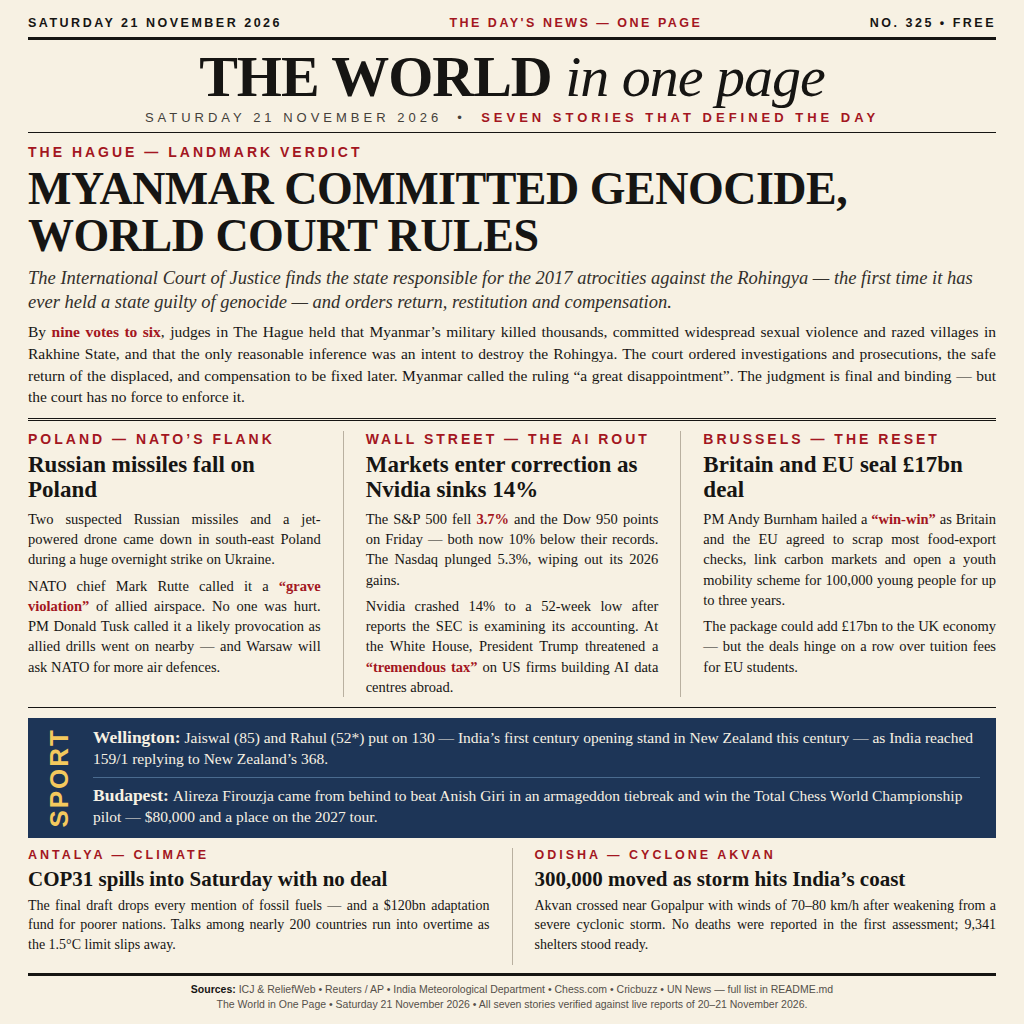
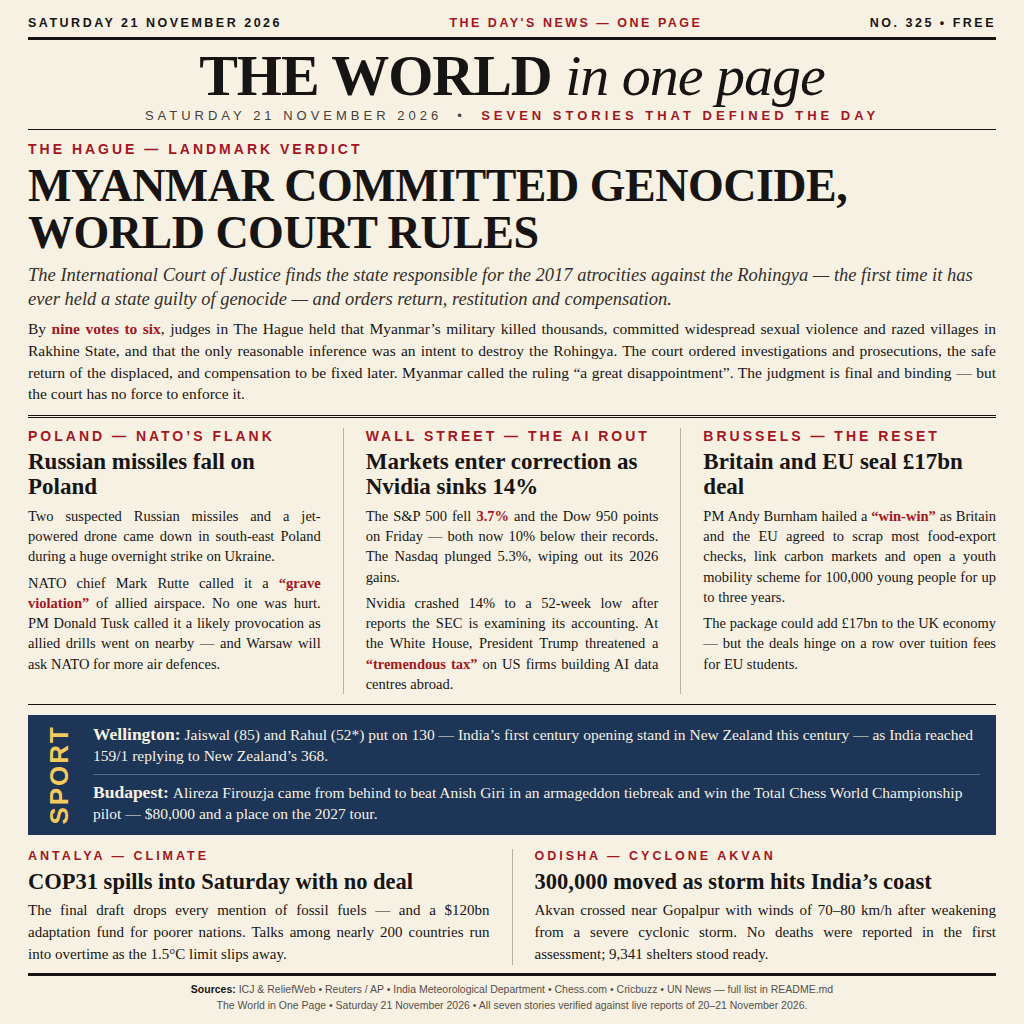
news-image-20261121 v2: enlarge bottom-band type, tighten masthead; stricter PNG validation (exact 1024x1024, IHDR len 13, disk-size cross-check)

diff --git a/main.ts b/main.ts
@@ -4,8 +4,10 @@
 // to /output/entry.png (or $MAKEFUN_OUTPUT_DIR for local runs), so two runs
 // always write identical bytes.
 //
-// Validation: PNG magic, width/height from the IHDR chunk (max 1024x1024),
+// Validation: PNG magic, width/height from the IHDR chunk (exactly 1024x1024),
 // an IEND chunk at the end, and a total size of at most 1 MiB (1048576 bytes).
+// The IHDR chunk length must be 13, and the on-disk size must match the
+// bytes read, so a truncated or swapped file cannot slip through.
 
 import { copyFileSync, mkdirSync, readFileSync, statSync } from 'node:fs';
 import { join } from 'node:path';
@@ -17,6 +19,10 @@ const IEND_TAIL = Buffer.from([0x00, 0x00, 0x00, 0x00, 0x49, 0x45, 0x4e, 0x44, 0
 
 const source = new URL('./entry.png', import.meta.url);
 const bytes = readFileSync(source);
+const diskSize = statSync(source).size;
+if (diskSize !== bytes.length) {
+  throw new Error(`entry.png size mismatch: ${diskSize} on disk vs ${bytes.length} read`);
+}
 
 if (bytes.length > MAX_BYTES) {
   throw new Error(`entry.png is ${bytes.length} bytes, over the 1 MiB limit`);
@@ -24,14 +30,17 @@ if (bytes.length > MAX_BYTES) {
 if (!bytes.subarray(0, 8).equals(PNG_MAGIC)) {
   throw new Error('entry.png is not a PNG (bad magic bytes)');
 }
-// IHDR: length (4) + "IHDR" (4) + width (4, BE) + height (4, BE).
+// IHDR: length (4, must be 13) + "IHDR" (4) + width (4, BE) + height (4, BE).
+if (bytes.readUInt32BE(8) !== 13) {
+  throw new Error('entry.png IHDR chunk length is not 13');
+}
 if (bytes.toString('ascii', 12, 16) !== 'IHDR') {
   throw new Error('entry.png has no IHDR chunk after the PNG signature');
 }
 const width = bytes.readUInt32BE(16);
 const height = bytes.readUInt32BE(20);
-if (width > MAX_DIMENSION || height > MAX_DIMENSION) {
-  throw new Error(`entry.png is ${width}x${height}, over the 1024x1024 limit`);
+if (width !== MAX_DIMENSION || height !== MAX_DIMENSION) {
+  throw new Error(`entry.png is ${width}x${height}, must be exactly 1024x1024`);
 }
 // Walk the chunk chain: every chunk must be whole, an IDAT chunk must exist,
 // and the last chunk must be IEND (checked below via the tail bytes).

diff --git a/poster.html b/poster.html
@@ -23,14 +23,14 @@
     border-bottom: 3px solid #161513; padding-bottom: 7px;
   }
   .dateline .red { color: #a31621; }
-  .masthead { text-align: center; padding: 9px 0 7px 0; border-bottom: 1px solid #161513; }
+  .masthead { text-align: center; padding: 8px 0 6px 0; border-bottom: 1px solid #161513; }
   .masthead h1 {
     font-size: 58px; line-height: 0.95; font-weight: 900; letter-spacing: -1px;
   }
   .masthead h1 .thin { font-weight: 400; font-style: italic; }
   .masthead .sub {
     font-family: Arial, Helvetica, sans-serif; font-size: 13px;
-    letter-spacing: 4px; text-transform: uppercase; margin-top: 6px; color: #44403a;
+    letter-spacing: 4px; text-transform: uppercase; margin-top: 5px; color: #44403a;
   }
   .masthead .sub b { color: #a31621; }
   /* ---------- LEAD ---------- */
@@ -68,12 +68,12 @@
   .sport .item b { font-size: 17.5px; }
   .sport .item span { font-size: 15.5px; line-height: 1.35; }
   /* ---------- BOTTOM BANDS ---------- */
-  .bands { display: flex; gap: 22px; margin-top: 10px; flex: 1; }
+  .bands { display: flex; gap: 22px; margin-top: 12px; padding-top: 2px; flex: 1; }
   .band { flex: 1; }
   .band + .band { border-left: 1px solid #b9b0a0; padding-left: 22px; }
   .band .kicker { font-size: 12.5px; }
-  .band h4 { font-size: 21px; line-height: 1.1; font-weight: 900; margin: 4px 0 5px 0; }
-  .band p { font-size: 14px; line-height: 1.38; text-align: justify; }
+  .band h4 { font-size: 22.5px; line-height: 1.12; font-weight: 900; margin: 5px 0 6px 0; }
+  .band p { font-size: 15px; line-height: 1.45; text-align: justify; }
   /* ---------- FOOTER ---------- */
   .footer {
     margin-top: 8px; padding-top: 6px; border-top: 3px solid #161513;
